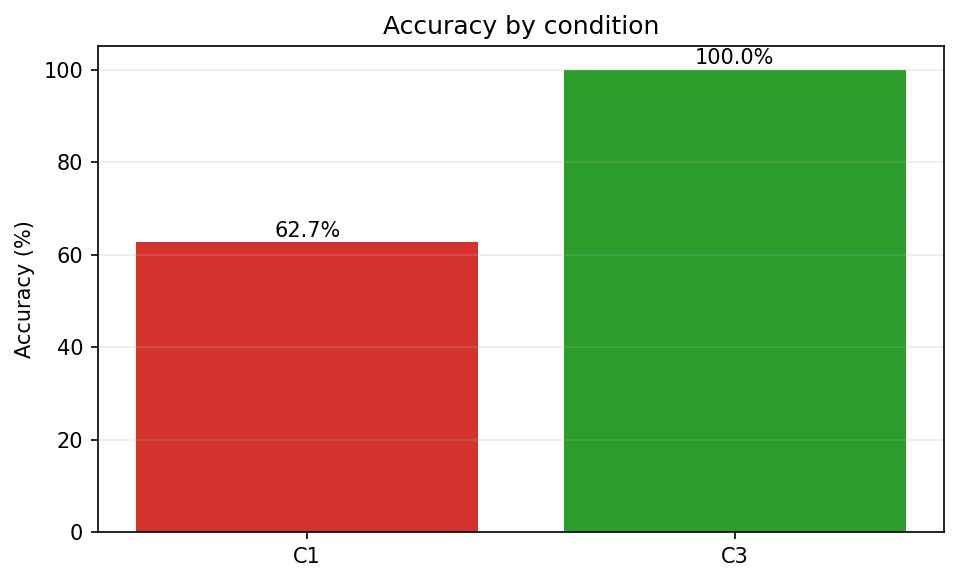
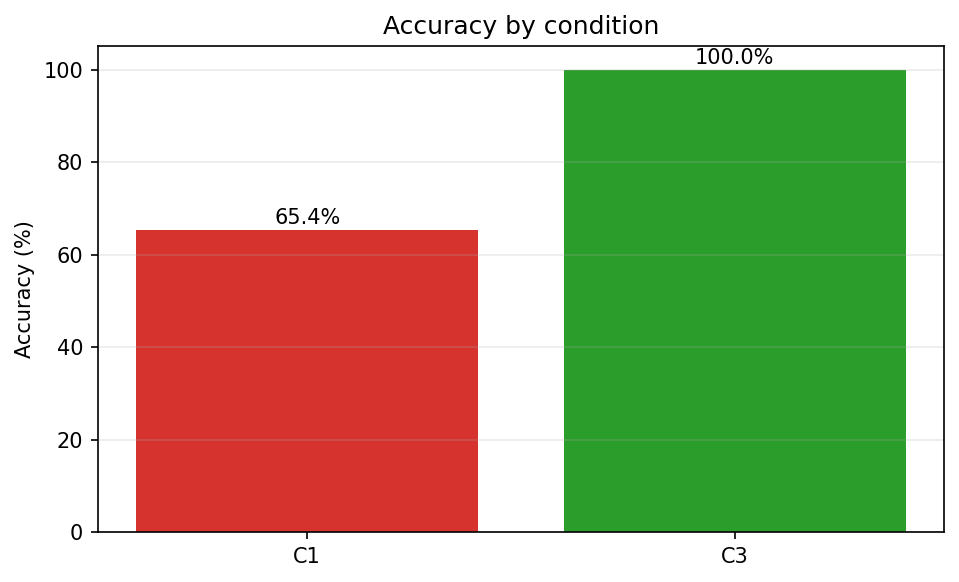
Fix flat-src packaging; figure legend Thm 4.2; clarify synthetic figure
- pyproject: map `deterministic_horizon` import package to the flat `src/`
  directory via package-dir, so `import deterministic_horizon` and all
  `from deterministic_horizon.X` imports work without a nested
  src/deterministic_horizon/ folder. `pip install -e .` + 32 tests pass.
- analysis.py: correct the decay-curve legend/label from "Thm 1" to the
  camera-ready "Theorem 4.2"; regenerate assets/ + analysis/ figures.
- README: hero caption now states the figure is the offline *synthetic*
  reproduction and points to the real GPT-4o numbers (d*=22, tool ~90%).

Changed region(s): [[0.121, 0.3402, 0.5141, 0.433]]

diff --git a/src/analysis.py b/src/analysis.py
@@ -27,7 +27,7 @@ from deterministic_horizon.metrics import (
 log = logging.getLogger(__name__)
 
 # ---------------------------------------------------------------------------
-# Theoretical curve (Theorem 1: super-exponential decay)
+# Theoretical curve (Theorem 4.2: super-exponential decay)
 # ---------------------------------------------------------------------------
 
 
@@ -142,7 +142,7 @@ def _plot_accuracy_decay(results, path, *, plt, dpi, title=None):
     if eps0 is not None and gamma is not None:
         d_grid = np.linspace(0, max(depths.max(), 50), 200)
         theo = np.exp(-eps0 * d_grid - gamma * d_grid * (d_grid + 1) / 2.0)
-        ax.plot(d_grid, theo, "-", color="#1f5fb4", linewidth=2.2, label="Theory (Thm 1)")
+        ax.plot(d_grid, theo, "-", color="#1f5fb4", linewidth=2.2, label="Theory (Thm 4.2)")
 
     # Tool-delegation reference (synthetic BFS = 100%, real models ≈ 94%)
     tool_acc = _tool_accuracy(results)

diff --git a/analysis/accuracy_by_depth.md b/analysis/accuracy_by_depth.md
@@ -1,15 +1,15 @@
 | Depth | Accuracy | 95% CI | N |
 |------:|---------:|:-------|--:|
-| 4 | 96.3% | [0.94, 0.98] | 300 |
-| 6 | 95.0% | [0.92, 0.97] | 300 |
-| 8 | 93.7% | [0.90, 0.96] | 300 |
-| 10 | 88.0% | [0.84, 0.91] | 300 |
-| 12 | 89.0% | [0.85, 0.92] | 300 |
-| 14 | 81.0% | [0.76, 0.85] | 300 |
-| 16 | 81.3% | [0.77, 0.85] | 300 |
-| 18 | 79.0% | [0.74, 0.83] | 300 |
-| 20 | 76.0% | [0.71, 0.80] | 300 |
-| 22 | 71.7% | [0.66, 0.76] | 300 |
-| 24 | 71.7% | [0.66, 0.76] | 300 |
-| 26 | 67.7% | [0.62, 0.73] | 300 |
-| 28 | 67.3% | [0.62, 0.72] | 300 |
+| 4 | 95.0% | [0.90, 0.97] | 160 |
+| 6 | 94.4% | [0.90, 0.97] | 160 |
+| 8 | 93.8% | [0.89, 0.97] | 160 |
+| 10 | 92.5% | [0.87, 0.96] | 160 |
+| 12 | 86.2% | [0.80, 0.91] | 160 |
+| 14 | 82.5% | [0.76, 0.88] | 160 |
+| 16 | 85.0% | [0.79, 0.90] | 160 |
+| 18 | 78.1% | [0.71, 0.84] | 160 |
+| 20 | 76.9% | [0.70, 0.83] | 160 |
+| 22 | 74.4% | [0.67, 0.81] | 160 |
+| 24 | 76.9% | [0.70, 0.83] | 160 |
+| 26 | 70.0% | [0.62, 0.77] | 160 |
+| 28 | 69.4% | [0.62, 0.76] | 160 |

diff --git a/analysis/conditions.md b/analysis/conditions.md
@@ -1,4 +1,4 @@
 | Condition | Accuracy | N |
 |:---------|---------:|--:|
-| C1 | 62.7% | 1950 |
-| C3 | 100.0% | 1950 |
+| C1 | 65.4% | 1040 |
+| C3 | 100.0% | 1040 |

diff --git a/README.md b/README.md
@@ -18,7 +18,7 @@
 
 <img src="assets/figure_decay.png" alt="Neural chain-of-thought accuracy decays super-exponentially with reasoning depth and crosses 50% at the Deterministic Horizon d*≈22, while tool-integrated reasoning stays flat near the top." width="760"/>
 
-<sub><b>The wall has a name.</b> Neural CoT accuracy follows the super-exponential decay of Theorem&nbsp;4.2 and crosses 50% at the <b>Deterministic Horizon</b> <i>d</i>*. Tool delegation (C3) ignores the wall. <i>(Figure regenerated from <a href="results/sample/synthetic_results.json"><code>results/sample/</code></a>.)</sub>
+<sub><b>The wall has a name.</b> Neural CoT accuracy follows the super-exponential decay of Theorem&nbsp;4.2 and crosses 50% at the <b>Deterministic Horizon</b> <i>d</i>*. Tool delegation (C3) ignores the wall. <i>This is the offline <b>synthetic</b> reproduction (regenerated live from <a href="results/sample/synthetic_results.json"><code>results/sample/</code></a> — no API keys); it mirrors the paper's Fig.&nbsp;1 on real GPT-4o, whose measured numbers (d*&nbsp;=&nbsp;22, tool&nbsp;≈&nbsp;90%) appear in the table below.</i></sub>
 
 </div>
 